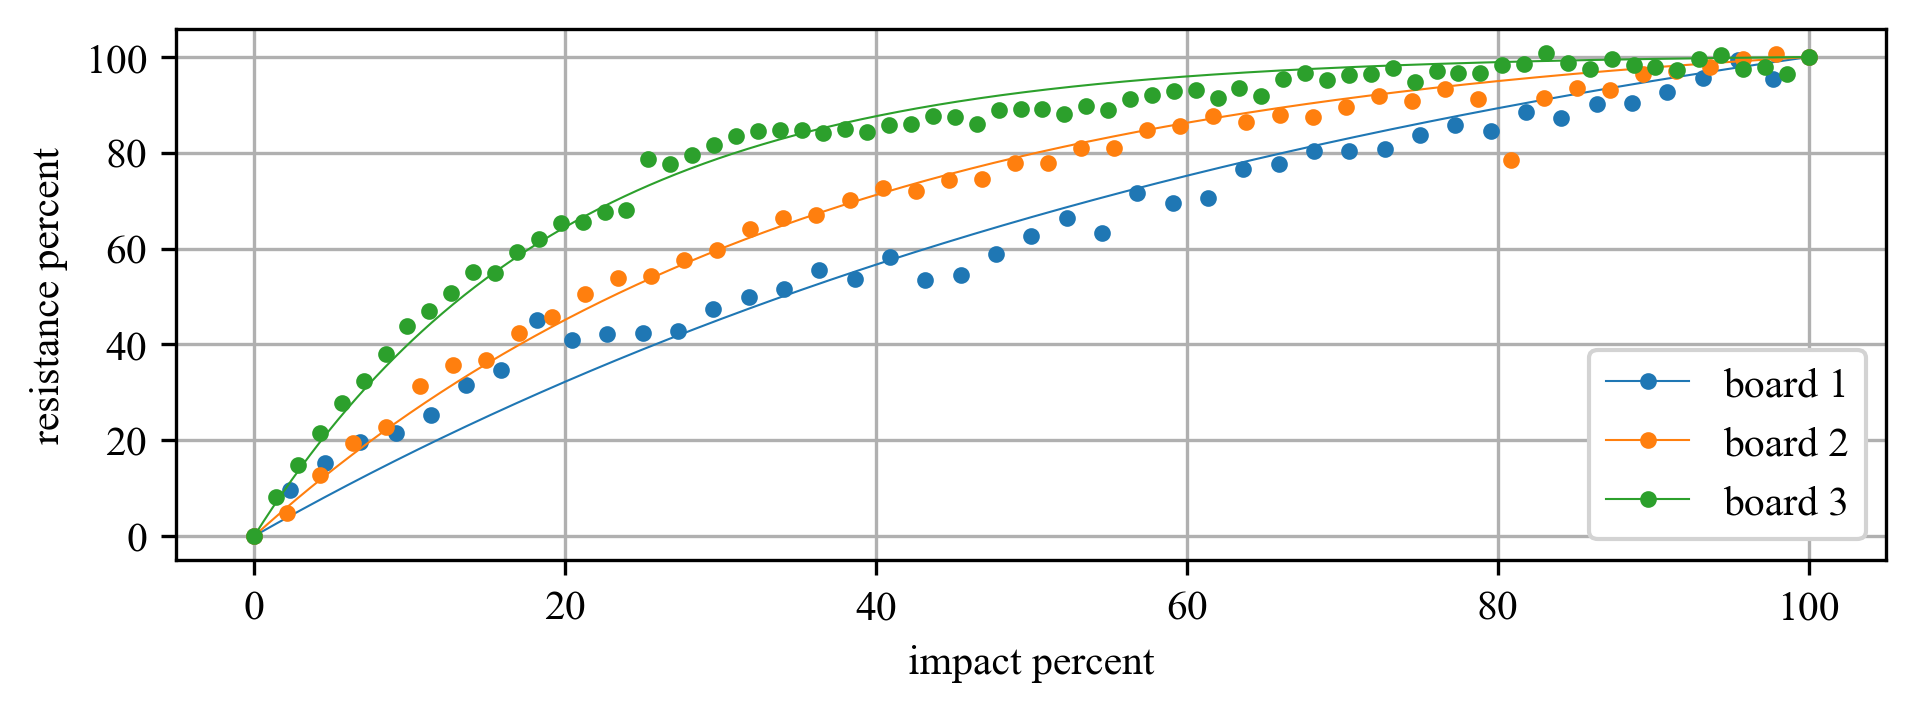
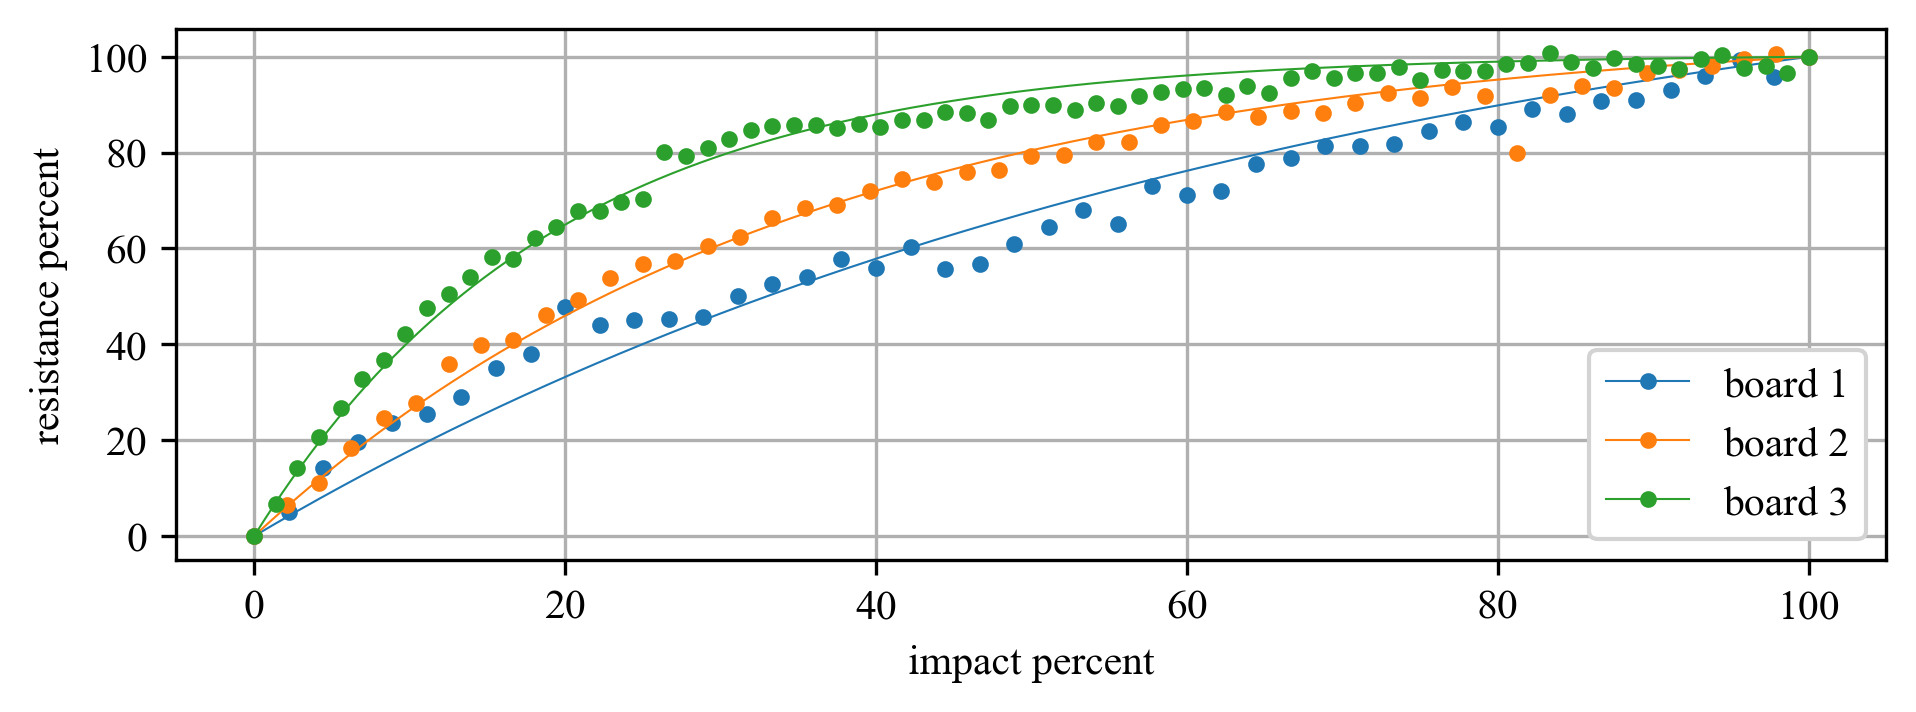
Plotting Updated

diff --git a/Analysis/IMAC_plotting.py b/Analysis/IMAC_plotting.py
@@ -41,7 +41,7 @@ only_boards = [0, 1, 2]   # only keep Boards 1,2,3
 
 # adjust impacts_to_remove for your new dataset if needed
 impacts_to_remove = [
-    [0], [0], [0]  # placeholder — tune for your boards
+    [-1], [-1], [-1]  # placeholder — tune for your boards
 ]
 
 feature_names = [
@@ -416,9 +416,8 @@ plt.grid(True); plt.tight_layout()
 plt.savefig(os.path.join(save_path, "excitation_response.png"), dpi=300, bbox_inches="tight")
 plt.show()
 
-# %% STATISTICAL ANALYSIS (Pearson correlation between resistance and features)
-from scipy.stats import pearsonr
-import matplotlib.pyplot as plt
+# %% STATISTICAL ANALYSIS (Pearson and Spearman correlations between resistance and features)
+from scipy.stats import pearsonr, spearmanr
 import numpy as np
 
 results = []
@@ -427,66 +426,276 @@ for i, board in enumerate(data_list):
     if i in only_boards:
         save_name = board_save_map[board]
 
-        # --- Resistance trendline (already smoothed/fitted) ---
-        res_fit_x = fit_line_x_values[i]  # 0–100 percent
+        # --- Resistance fit interpolated to same length as features ---
+        res_fit_x = fit_line_x_values[i]
         res_fit_y = fit_line_y_values[i]
 
-        # match to actual impacts (% scale)
-        feature_impacts = np.linspace(0, 100, len(features[0]))
+        # --- Extract features for this board (recompute just like in plotting) ---
+        board_folder = os.path.join(file_path, board)
+        lvm_files = sorted([f for f in os.listdir(board_folder) if f.endswith(".lvm")])
+
+        impacts, board_features = [], [[] for _ in feature_names]
+        for j, filename in enumerate(lvm_files):
+            data = np.loadtxt(os.path.join(board_folder, filename), usecols=(2)).tolist()
+            data_zeroed = [val - data[0] for val in data]
+            current_max_index = np.argmax([abs(x) for x in data_zeroed])
+            current_max = abs(data_zeroed[current_max_index])
+            if current_max_index < 1000:
+                data_small = data_zeroed[:(current_max_index + 11000)]
+            else:
+                data_small = data_zeroed[(current_max_index - 1000):(current_max_index + 11000)]
+
+            abs_mean = np.mean(np.abs(data_small))
+            rms_val = np.sqrt(np.mean(np.square(data_small)))
+
+            board_features[0].append(current_max)
+            board_features[1].append(abs_mean)
+            board_features[2].append(rms_val)
+            board_features[3].append(skew(data_small))
+            board_features[4].append(kurtosis(data_small))
+            board_features[5].append(current_max / rms_val if rms_val != 0 else 0)
+            board_features[6].append(rms_val / abs_mean if abs_mean != 0 else 0)
+            board_features[7].append(current_max / abs_mean if abs_mean != 0 else 0)
+            impacts.append(j)
+
+        # --- Normalize features relative to baseline (first 5 points) ---
+        board_features_percent = []
+        for f in board_features:
+            f = np.array(f, dtype=float)
+            baseline = np.nanmean(f[:5]) if np.nanmean(f[:5]) != 0 else 1.0
+            f_percent = 100 * (f - baseline) / baseline
+            board_features_percent.append(f_percent)
+
+        # --- Interpolate resistance to match feature length ---
+        feature_length = len(board_features_percent[0])
+        feature_impacts = np.linspace(0, 100, feature_length)
         res_fit_interp = np.interp(feature_impacts, res_fit_x, res_fit_y)
 
-        # --- Compute correlations for each feature ---
+        # --- Correlation analysis (Pearson + Spearman) ---
         board_corrs = {}
-        for f_idx, f_vals in enumerate(features_percent):
+        for f_idx, f_vals in enumerate(board_features_percent):
             f_array = np.array(f_vals, dtype=float)
             mask = ~np.isnan(f_array)
             if np.sum(mask) > 2:
-                corr, pval = pearsonr(res_fit_interp[mask], f_array[mask])
-                board_corrs[feature_names[f_idx].lower()] = (corr, pval)
+                pear_r, pear_p = pearsonr(res_fit_interp[mask], f_array[mask])
+                spear_r, spear_p = spearmanr(res_fit_interp[mask], f_array[mask])
+                board_corrs[feature_names[f_idx].lower()] = {
+                    "pearson": (pear_r, pear_p),
+                    "spearman": (spear_r, spear_p),
+                }
             else:
-                board_corrs[feature_names[f_idx].lower()] = (np.nan, np.nan)
+                board_corrs[feature_names[f_idx].lower()] = {
+                    "pearson": (np.nan, np.nan),
+                    "spearman": (np.nan, np.nan),
+                }
 
         results.append((save_name, board_corrs))
 
-# --- Print results nicely ---
+# --- Print nicely ---
 for board_name, corrs in results:
     print(f"\nBoard: {board_name}")
-    for fname, (corr, pval) in corrs.items():
-        print(f"  {fname:15s} : r = {corr: .3f}, p = {pval:.3e}")
+    for fname, vals in corrs.items():
+        print(f"  {fname:15s} | "
+              f"Pearson r = {vals['pearson'][0]:.3f}, p={vals['pearson'][1]:.2e} | "
+              f"Spearman rho = {vals['spearman'][0]:.3f}, p={vals['spearman'][1]:.2e}")
+
+import pandas as pd
+import numpy as np
+
+# --- Build DataFrames for Pearson and Spearman ---
+pearson_df = pd.DataFrame({
+    board: {f: vals["pearson"][0] for f, vals in corrs.items()}
+    for board, corrs in results
+}).T
+
+spearman_df = pd.DataFrame({
+    board: {f: vals["spearman"][0] for f, vals in corrs.items()}
+    for board, corrs in results
+}).T
+
+# --- Compute mean ± std ---
+pearson_mean = pearson_df.mean(axis=0)
+pearson_std  = pearson_df.std(axis=0)
+spearman_mean = spearman_df.mean(axis=0)
+spearman_std  = spearman_df.std(axis=0)
+
+# --- Print nicely ---
+print("\n=== Pearson mean ± std across boards ===")
+for feature in pearson_df.columns:
+    print(f"{feature:15s}: {pearson_mean[feature]:.3f} ± {pearson_std[feature]:.3f}")
+
+print("\n=== Spearman mean ± std across boards ===")
+for feature in spearman_df.columns:
+    print(f"{feature:15s}: {spearman_mean[feature]:.3f} ± {spearman_std[feature]:.3f}")
+
+
 
 # %% Feature Importance Bar Plot
-import pandas as pd
+# import pandas as pd
 
-# --- Build DataFrame of r values ---
-df_r = pd.DataFrame(
-    {board: {f: vals[0] for f, vals in corrs.items()} for board, corrs in results}
-).T  # boards as rows
+# # --- Build DataFrame of r values ---
+# df_r = pd.DataFrame(
+#     {board: {f: vals[0] for f, vals in corrs.items()} for board, corrs in results}
+# ).T  # boards as rows
 
-# --- Compute mean ± std across boards ---
-mean_r = df_r.mean(axis=0)
-std_r = df_r.std(axis=0)
+# # --- Compute mean ± std across boards ---
+# mean_r = df_r.mean(axis=0)
+# std_r = df_r.std(axis=0)
 
-# --- Use absolute correlation as importance ---
-importance = mean_r.abs()
+# # --- Use absolute correlation as importance ---
+# importance = mean_r.abs()
 
-# --- Sort by importance ---
-importance_sorted = importance.sort_values(ascending=False)
+# # --- Sort by importance ---
+# importance_sorted = importance.sort_values(ascending=False)
 
-# --- Fix RMS capitalization ---
-importance_sorted.index = [("RMS" if f.lower() == "rms" else f) for f in importance_sorted.index]
+# # --- Fix RMS capitalization ---
+# importance_sorted.index = [("RMS" if f.lower() == "rms" else f) for f in importance_sorted.index]
 
-# --- Plot feature importance bar chart ---
-plt.figure(figsize=(6.5, 3))
-plt.bar(importance_sorted.index, importance_sorted.values, zorder=2)
+# # --- Plot feature importance bar chart ---
+# plt.figure(figsize=(6.5, 3))
+# plt.bar(importance_sorted.index, importance_sorted.values, zorder=2)
 
-plt.ylabel("feature importance") #(|mean r|)
-# plt.xlabel("feature")
-# plt.title("feature importance based on correlation magnitude")
-plt.xticks(rotation=45, ha="right")
+# plt.ylabel("feature importance") #(|mean r|)
+# # plt.xlabel("feature")
+# # plt.title("feature importance based on correlation magnitude")
+# plt.xticks(rotation=45, ha="right")
 
-# Grid behind bars
-plt.grid(axis="y", alpha=0.6, zorder=1)
+# # Grid behind bars
+# plt.grid(axis="y", alpha=0.6, zorder=1)
 
-plt.tight_layout()
-plt.savefig(os.path.join(save_path, "feature_importance.png"), dpi=300, bbox_inches="tight")
+# plt.tight_layout()
+# plt.savefig(os.path.join(save_path, "feature_importance.png"), dpi=300, bbox_inches="tight")
+# plt.show()
+
+# %% Feature Importance Bar Plots (Pearson and Spearman)
+# --- Build DataFrames for Pearson and Spearman ---
+df_pearson = pd.DataFrame(
+    {board: {f: vals["pearson"][0] for f, vals in corrs.items()} for board, corrs in results}
+).T
+df_spearman = pd.DataFrame(
+    {board: {f: vals["spearman"][0] for f, vals in corrs.items()} for board, corrs in results}
+).T
+
+# --- Absolute values as importance ---
+df_pearson = df_pearson.abs()
+df_spearman = df_spearman.abs()
+
+# --- Compute means ---
+pearson_mean = df_pearson.mean(axis=0)
+spearman_mean = df_spearman.mean(axis=0)
+
+# --- Fix RMS capitalization and lowercase everything else ---
+def fix_labels(cols):
+    return [("RMS" if f.lower() == "rms" else f.lower()) for f in cols]
+
+df_pearson.columns = fix_labels(df_pearson.columns)
+df_spearman.columns = fix_labels(df_spearman.columns)
+pearson_mean.index = df_pearson.columns
+spearman_mean.index = df_spearman.columns
+
+# --- Common plotting function ---
+def plot_importance(df, mean_vals, ylabel, filename):
+    # Sort features by mean importance (descending)
+    features_sorted = mean_vals.sort_values(ascending=False).index
+    x = np.arange(len(features_sorted))
+    width = 0.2  # bar width
+
+    fig, ax = plt.subplots(figsize=(6.5, 3))
+
+    # hidden mean bar (gray background)
+    ax.bar(x, mean_vals[features_sorted], color="gray", alpha=0.2, width=0.8, zorder=1, label="mean")
+
+    # each board as a separate bar
+    for j, board in enumerate(df.index):
+        ax.bar(x + (j - 1) * width, df.loc[board, features_sorted],
+               width=width, label=board.lower(), zorder=2)
+
+    # format
+    ax.set_xticks(x)
+    ax.set_xticklabels(features_sorted, rotation=45, ha="right")
+    ax.set_ylabel(ylabel)
+    ax.grid(axis="y", alpha=0.6, zorder=0)
+
+    # legend close to plot
+    handles, labels = ax.get_legend_handles_labels()
+    fig.legend(handles, labels, loc="upper center", ncol=4, frameon=False, bbox_to_anchor=(0.5, 0.98))
+
+    plt.tight_layout(rect=[0, 0, 1, 0.9])
+    plt.savefig(os.path.join(save_path, filename), dpi=300, bbox_inches="tight")
+    plt.show()
+
+# --- Pearson plot ---
+plot_importance(df_pearson, pearson_mean, ylabel="feature importance (|r|)", filename="feature_importance_pearson.png")
+
+# --- Spearman plot ---
+plot_importance(df_spearman, spearman_mean, ylabel="feature importance (|ρ|)", filename="feature_importance_spearman.png")
+
+# %% Combined Feature Importance Plot (Pearson above Spearman, both x-axes visible, sorted)
+# --- Build DataFrames for Pearson and Spearman ---
+df_pearson = pd.DataFrame(
+    {board: {f: vals["pearson"][0] for f, vals in corrs.items()} for board, corrs in results}
+).T
+df_spearman = pd.DataFrame(
+    {board: {f: vals["spearman"][0] for f, vals in corrs.items()} for board, corrs in results}
+).T
+
+# --- Absolute values as importance ---
+df_pearson = df_pearson.abs()
+df_spearman = df_spearman.abs()
+
+# --- Compute means ---
+pearson_mean = df_pearson.mean(axis=0)
+spearman_mean = df_spearman.mean(axis=0)
+
+# --- Fix RMS capitalization and lowercase everything else ---
+def fix_labels(cols):
+    return [("RMS" if f.lower() == "rms" else f.lower()) for f in cols]
+
+df_pearson.columns = fix_labels(df_pearson.columns)
+df_spearman.columns = fix_labels(df_spearman.columns)
+pearson_mean.index = df_pearson.columns
+spearman_mean.index = df_spearman.columns
+
+# --- Sort features independently ---
+features_sorted_pearson = pearson_mean.sort_values(ascending=False).index
+features_sorted_spearman = spearman_mean.sort_values(ascending=False).index
+
+width = 0.2  # bar width
+
+# --- Create subplots ---
+fig, axs = plt.subplots(2, 1, figsize=(6.5, 6))
+
+# --- Pearson subplot (top) ---
+x = np.arange(len(features_sorted_pearson))
+axs[0].bar(x, pearson_mean[features_sorted_pearson], color="gray", alpha=0.2,
+           width=0.8, zorder=1, label="mean")
+for j, board in enumerate(df_pearson.index):
+    axs[0].bar(x + (j - 1) * width, df_pearson.loc[board, features_sorted_pearson],
+               width=width, label=board.lower(), zorder=2)
+axs[0].set_xticks(x)
+axs[0].set_xticklabels(features_sorted_pearson, rotation=45, ha="right")
+axs[0].set_ylabel("feature importance (|r|)")
+axs[0].grid(axis="y", alpha=0.6, zorder=0)
+axs[0].set_ylim(0, 1.0)  # <-- set Pearson y-limits manually
+
+# --- Spearman subplot (bottom) ---
+x = np.arange(len(features_sorted_spearman))
+axs[1].bar(x, spearman_mean[features_sorted_spearman], color="gray", alpha=0.2,
+           width=0.8, zorder=1, label="mean")
+for j, board in enumerate(df_spearman.index):
+    axs[1].bar(x + (j - 1) * width, df_spearman.loc[board, features_sorted_spearman],
+               width=width, label=board.lower(), zorder=2)
+axs[1].set_xticks(x)
+axs[1].set_xticklabels(features_sorted_spearman, rotation=45, ha="right")
+axs[1].set_ylabel("feature importance (|ρ|)")
+axs[1].grid(axis="y", alpha=0.6, zorder=0)
+axs[1].set_ylim(0, 1.0)  # <-- set Spearman y-limits manually
+
+# --- One legend at top ---
+handles, labels = axs[0].get_legend_handles_labels()
+fig.legend(handles, labels, loc="upper center", ncol=4, frameon=False, bbox_to_anchor=(0.5, 0.98))
+
+plt.tight_layout(rect=[0, 0, 1, 0.94])
+plt.savefig(os.path.join(save_path, "feature_importance_combined.png"),
+            dpi=300, bbox_inches="tight")
 plt.show()
